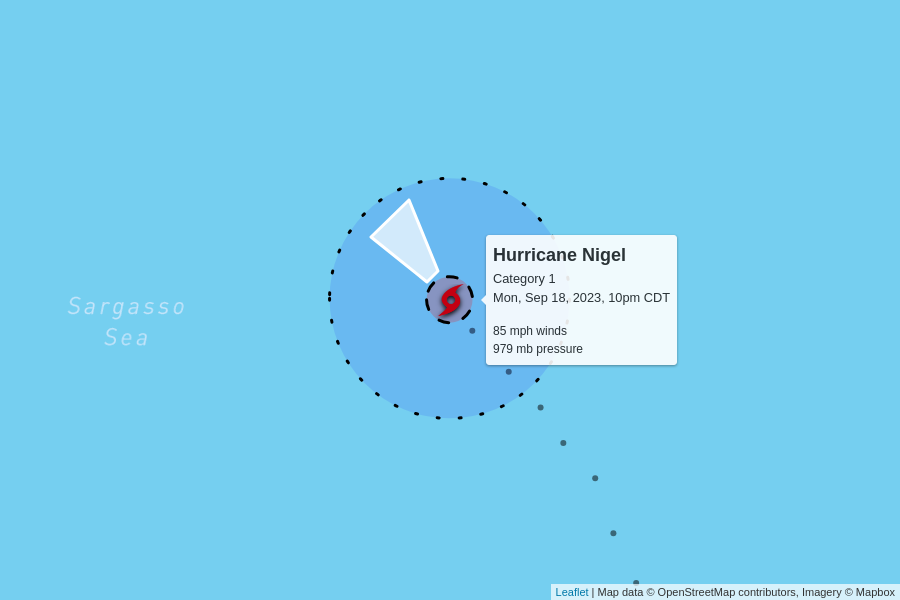
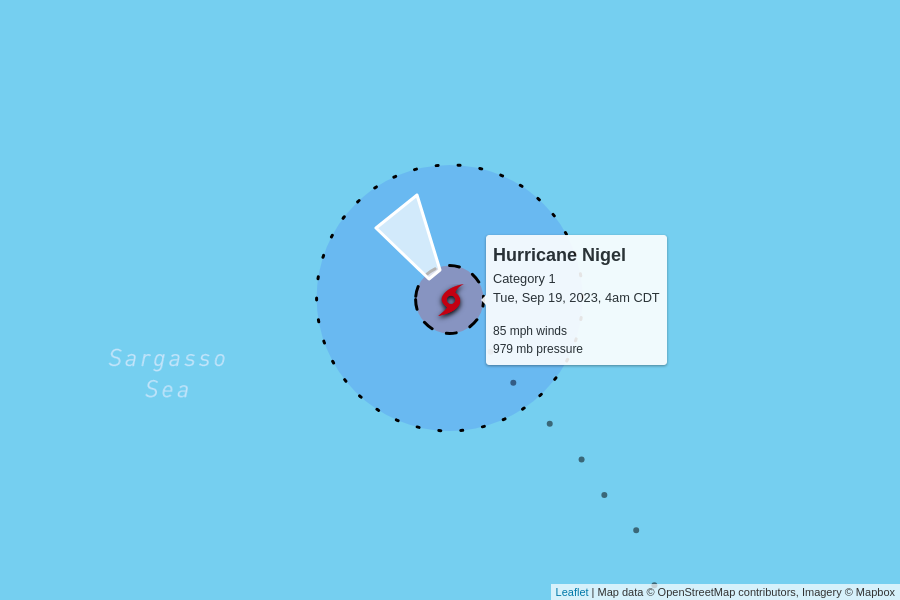
automatic update

diff --git a/docs/index.html b/docs/index.html
@@ -102,7 +102,7 @@
         <td colspan="6" class="storm category-1" >
           <h2>
             Hurricane Nigel - Category 1
-            <p class="updated">last updated <span data-time>2023-09-19T03:00:00.000Z</span></p>
+            <p class="updated">last updated <span data-time>2023-09-19T09:00:00.000Z</span></p>
           </h2>
         </td>
       </tr>
@@ -117,12 +117,12 @@
       </tr>
       <tr>
         <td class="spacer"></td>
-        <td>85 mph<br>+5 mph since last update</td>
-        <td>979 mb<br>-3 mb since last update</td>
+        <td>85 mph<br>0 mph since last update</td>
+        <td>979 mb<br>0 mb since last update</td>
         <td>
-          12 mph to the northwest
+          13 mph to the northwest
           <br/>
-          <span style="display: inline-block; font-size: 1.5em; transform: rotate(320deg);">↑</span>
+          <span style="display: inline-block; font-size: 1.5em; transform: rotate(325deg);">↑</span>
         </td>
         <td><a href="https://raw.githubusercontent.com/mgwalker/atlantic-hurricanes/main/data/csv/AL152023.csv">AL152023.csv</a></td>
         <td><a href="https://www.nhc.noaa.gov/archive/2023/NIGEL.shtml?">NHC advisories</a></td>
